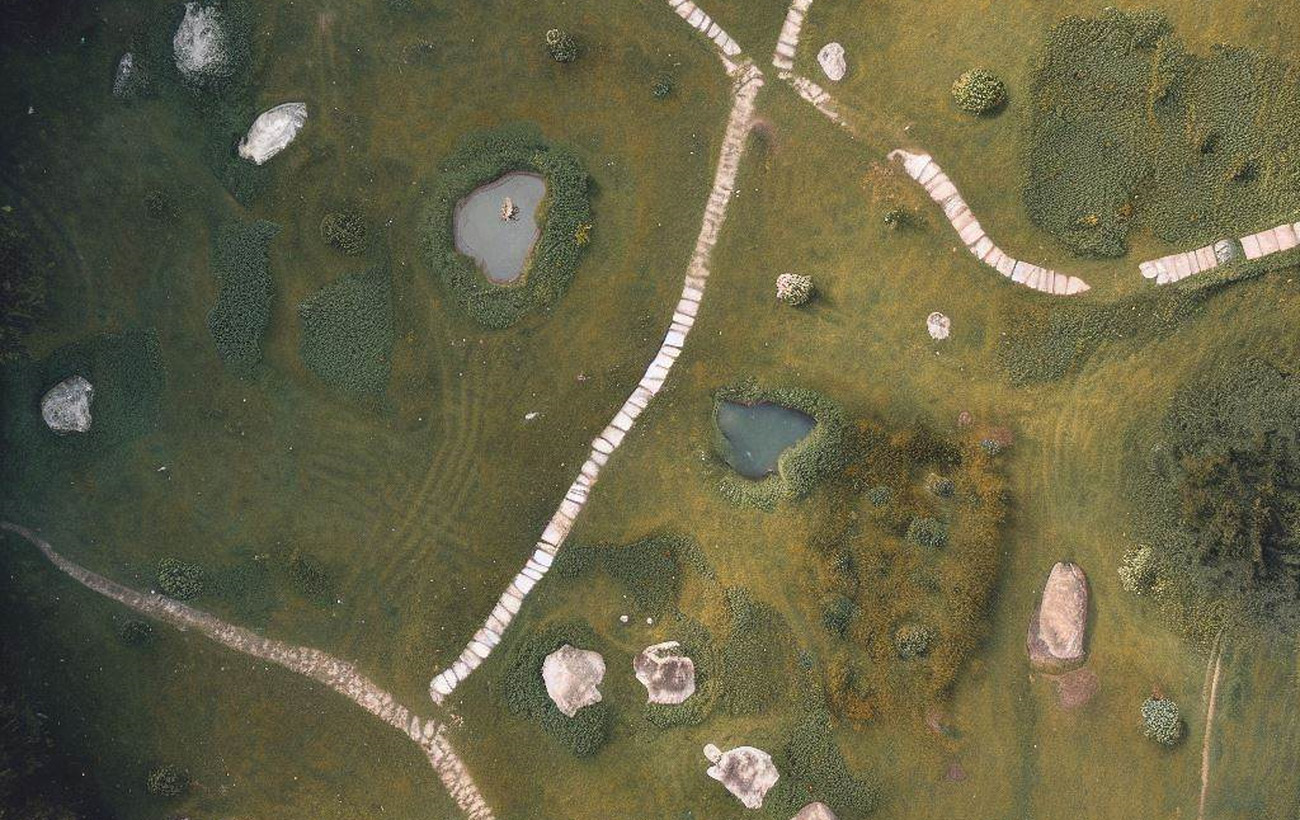
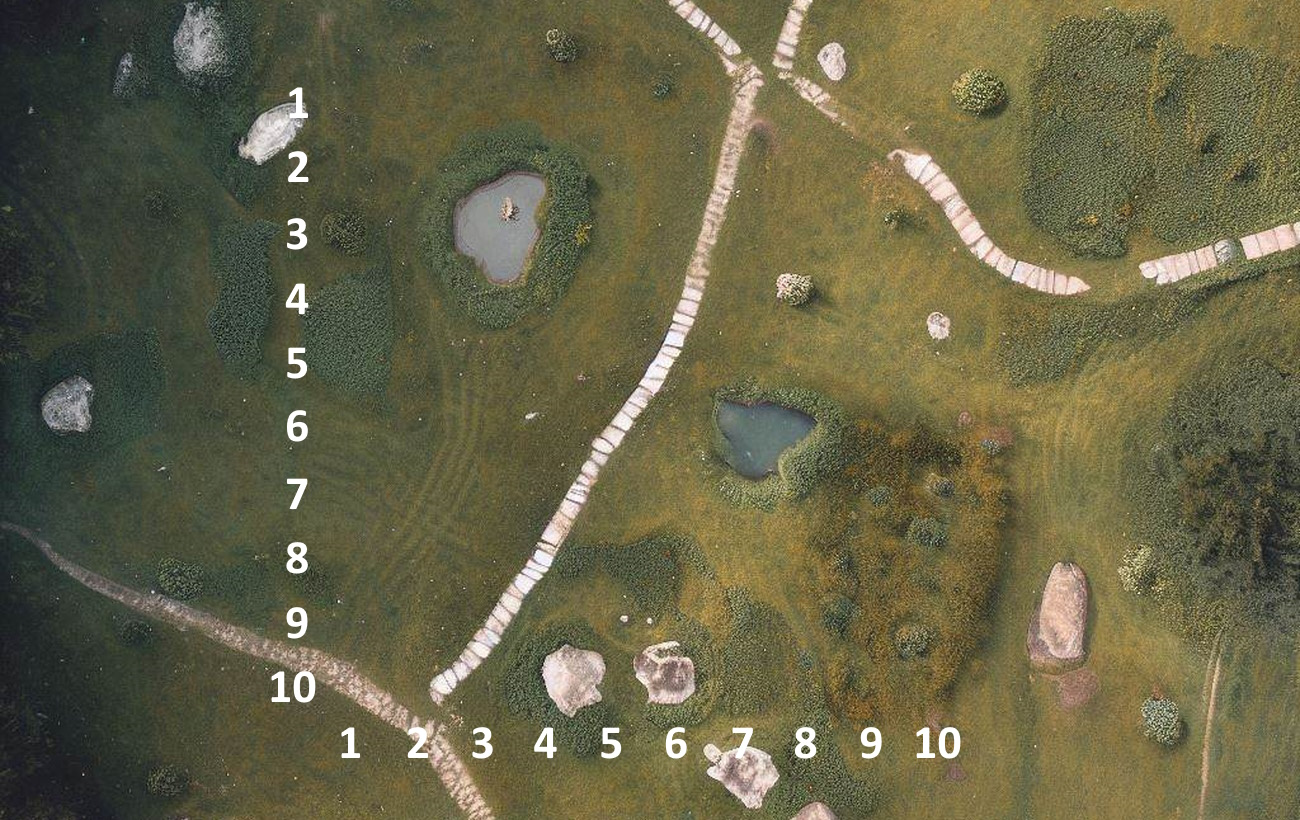
added row and column numbers

diff --git a/src/frame.java b/src/frame.java
@@ -126,6 +126,7 @@ public class frame{
                     "(row) (column) example: 5 2. careful that you can only enter a quest item that is wanted by castle and you have discover its location.<br>" +
                     "entering invalid input will give player another chance to enter location but entering a wrong location will end a player turn.<br>" +
                     "also entering the quest location correctly will finish the player round and reward them with a lot of money!<br>" +
+                    "in the game row and column numbers are visible to help submitting quest locations<br>" +
                     "there are walls in the map. black horizontal or vertical lines between two houses. you cannot pass through them and you have to choose another path.<br>" +
                     "there are traps in the map. they are hidden but when you hit them they will be visible to you in the next rounds.<br>" +
                     "when player hit a trap they will lose 10% of either their money or power. if a player have low amount of money and power they will die when they hit a trap<br>" +

diff --git a/src/Map.java b/src/Map.java
@@ -132,14 +132,10 @@ public class Map extends JPanel {
     }
     public void showTraps(int turn) {
         hideTraps();
-        boolean active = false;
         for (int i = 0; i < traps.length; i++) {
             if (traps[i].showTrap[turn]) {
                 traps[i].icon.setVisible(true);
-                active = true;
             }
-        }
-        if (active) {
         }
     }
     public void hideTraps() {
